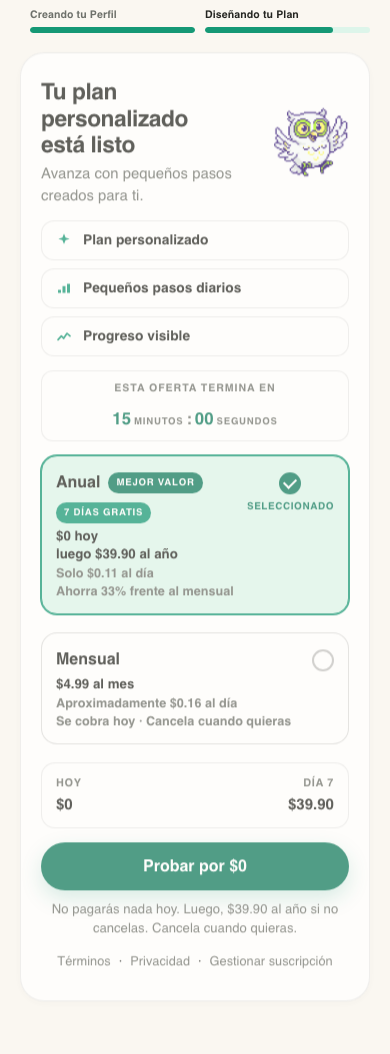
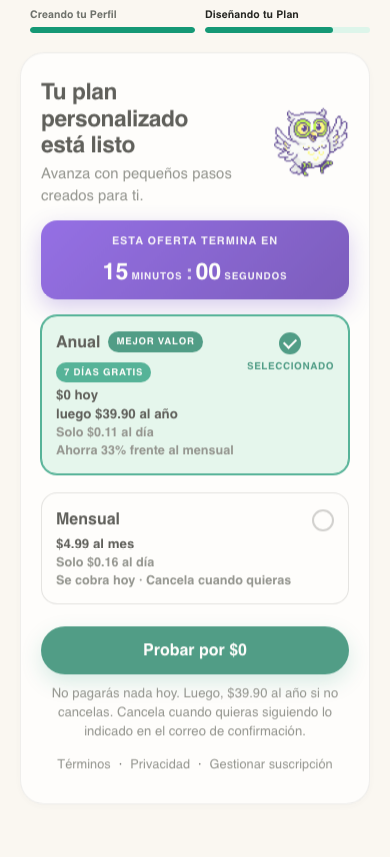
Ajusta el paywall: sin pills, contador violeta y fuera el interstitial
Quita las tres pills de beneficios y el timeline del trial, que ya no
tenian cabida en el bloque de una columna. Se eliminan tambien sus
claves de copy, sus funciones y su CSS, para no dejar codigo muerto.

El contador de la oferta pasa a un bloque violeta con degradado y
letras blancas: es el elemento que mas llama la atencion de la
pantalla y se estaba perdiendo como una caja mas.

En el plan mensual, "Aproximadamente $X al dia" pasa a "Solo $X al
dia", que es mas corto y encaja con el "Solo $X al dia" del anual.
Se queda una sola clave de copy para los dos planes.

La nota bajo el CTA anade, tras "Cancela cuando quieras", la
aclaracion de que se sigue lo indicado en el correo de confirmacion.
Se aplica a las tres variantes de nota y a los dos idiomas.

Ademas quita el paso interstitial_1 ("No estas solo en esto") del
stepList y su copy es/en. No habia ningun paso dependiente de el, y
se verifico que la navegacion salta de nq09 a nq10 correctamente en
ida y vuelta, sin errores de pagina.

startCheckout, syncCountdown, paywallOfferRemaining, renderInterstitial
y el resto de la logica de compra quedan sin tocar.

diff --git a/funnel.html b/funnel.html
@@ -3491,64 +3491,27 @@
         }
 
 
-        /* ---- 3 filas de beneficios: nunca cortan palabras ---- */
-        .paywall-benefits {
-            display: grid;
-            gap: 8px;
-            margin-bottom: 14px;
-        }
-
-
-        .paywall-benefit {
-            display: flex;
-            align-items: center;
-            gap: 10px;
-            min-width: 0;
-            padding: 10px 13px;
-            border-radius: 13px;
-            background: var(--funnel-surface);
-            border: 1px solid var(--funnel-border);
-        }
-
-
-        .paywall-benefit svg {
-            flex: 0 0 auto;
-            width: 18px;
-            height: 18px;
-            color: var(--funnel-accent);
-        }
-
-
-        .paywall-benefit-text {
-            min-width: 0;
-            font-size: 0.86rem;
-            font-weight: 700;
-            line-height: 1.3;
-            color: var(--funnel-text);
-            overflow-wrap: break-word;
-        }
-
-
-        /* ---- Countdown: solo se adapta el contenedor ---- */
+        /* ---- Contador de la oferta: bloque violeta, texto blanco ---- */
         .paywall-banner {
+            --paywall-violet: #5B34C7;
             display: flex;
             align-items: center;
             justify-content: center;
             gap: 10px;
             flex-wrap: wrap;
-            margin-bottom: 14px;
-            padding: 9px 12px;
-            border-radius: 12px;
-            background: var(--funnel-surface);
-            border: 1px solid var(--funnel-border);
+            margin-bottom: 16px;
+            padding: 13px 14px;
+            border-radius: 16px;
+            background: linear-gradient(135deg, #6D3BE0 0%, #4B21A8 100%);
+            box-shadow: 0 8px 22px rgba(91, 52, 199, 0.32);
         }
 
 
         .paywall-banner-label {
-            font-size: 0.66rem;
+            font-size: 0.68rem;
             font-weight: 800;
             letter-spacing: 0.09em;
-            color: var(--funnel-muted);
+            color: rgba(255, 255, 255, 0.92);
         }
 
 
@@ -3568,24 +3531,26 @@
 
 
         .paywall-countdown-value {
-            font-size: 1.05rem;
+            font-size: 1.45rem;
             font-weight: 800;
-            color: var(--funnel-accent-strong);
+            line-height: 1;
+            color: #ffffff;
         }
 
 
         .paywall-countdown-sep {
-            font-size: 1rem;
+            font-size: 1.3rem;
             font-weight: 800;
-            color: var(--funnel-muted);
+            line-height: 1;
+            color: rgba(255, 255, 255, 0.7);
         }
 
 
         .paywall-countdown-caption {
-            font-size: 0.6rem;
+            font-size: 0.62rem;
             font-weight: 800;
             letter-spacing: 0.08em;
-            color: var(--funnel-muted);
+            color: rgba(255, 255, 255, 0.92);
         }
 
 
@@ -3758,63 +3723,6 @@
 
 
         /* ---- Timeline del trial (solo anual con trial real) ---- */
-        .paywall-timeline {
-            display: grid;
-            grid-template-columns: 1fr auto 1fr;
-            align-items: center;
-            gap: 8px;
-            margin-top: 10px;
-            padding: 12px 14px;
-            border-radius: 14px;
-            background: var(--funnel-surface);
-            border: 1px solid var(--funnel-border);
-        }
-
-
-        .paywall-timeline-point {
-            display: flex;
-            flex-direction: column;
-            gap: 1px;
-        }
-
-
-        .paywall-timeline-point:last-child {
-            text-align: right;
-        }
-
-
-        .paywall-timeline-label {
-            font-size: 0.68rem;
-            font-weight: 800;
-            letter-spacing: 0.06em;
-            text-transform: uppercase;
-            color: var(--funnel-muted);
-        }
-
-
-        .paywall-timeline-amount {
-            font-size: 0.94rem;
-            font-weight: 800;
-            color: var(--funnel-text);
-            white-space: nowrap;
-        }
-
-
-        .paywall-timeline-rule {
-            height: 1px;
-            background: var(--funnel-border);
-        }
-
-
-        .paywall-expired {
-            margin: 10px 0 0;
-            text-align: center;
-            font-size: 0.86rem;
-            font-weight: 700;
-            color: var(--danger);
-        }
-
-
         /* ---- CTA ---- */
         .paywall-cta {
             width: 100%;
@@ -3882,10 +3790,6 @@
 
             .paywall-top .sub {
                 font-size: 1rem;
-            }
-
-            .paywall-benefit {
-                font-size: 0.8rem;
             }
         }
 
@@ -4616,13 +4520,6 @@
                 ]
             },
             {
-                id: 'interstitial_1',
-                type: 'interstitial',
-                headline: 'No estás solo en esto',
-                body: 'Diseñado para cerebros con TDAH. El patrón no es tu falta de voluntad: sin un sistema que desglose lo grande y te devuelva progreso, cualquier persona abandonaría. Brainy convierte eso en pasos chicos y una mascota que crece con cada uno.',
-                cta: 'Seguir →'
-            },
-            {
                 id: 'nq10',
                 type: 'question',
                 questionIndex: 10,
@@ -5213,10 +5110,6 @@
                 es: { headline: '¿Qué te motiva a empezar ahora?', options: ['Quiero dejar de sentirme estancado/a', 'Estoy cansado/a de volver a empezar', 'Quiero un cambio duradero', 'Solo quiero sentirme mejor'] },
                 en: { headline: 'What’s motivating you to start now?', options: ['I want to stop feeling stuck', 'I’m tired of restarting', 'I want long-term change', 'I just want to feel better'] }
             },
-            interstitial_1: {
-                es: { headline: 'No estás solo en esto', body: 'Diseñado para mentes con TDAH. El patrón no es tu falta de voluntad: sin un sistema que divida lo grande y te muestre el progreso, cualquiera podría abandonar. Brainy lo convierte en pasos pequeños y una mascota que crece con cada uno.', cta: 'Continuar →' },
-                en: { headline: 'You are not alone in this', body: 'Designed for ADHD brains. The pattern is not a lack of willpower: without a system that breaks down big tasks and shows your progress, anyone could give up. Brainy turns it into small steps and a companion that grows with each one.', cta: 'Continue →' }
-            },
             interstitial_2: {
                 es: { headline: 'Con nuestro sistema:', body: 'No se trata de fuerza de voluntad. Se trata de dividir las tareas hasta que cada paso parezca posible.', cta: 'Entendido→', breakdown: { title: '«Organizar mi armario» se divide en:', steps: ['Sacar todo', 'Separar en 3 grupos', 'Doblar', 'Guardar'], caption: 'Cada micro paso que completas también la hace crecer.' } },
                 en: { headline: 'This is how a brain with a system works', body: 'It is not about willpower. It is about breaking things down until every step feels possible.', cta: 'I want to see mine grow →', breakdown: { title: '“Organize my closet” becomes:', steps: ['Take everything out', 'Separate into 3 piles', 'Fold', 'Put away'], caption: 'Every small step you complete helps it grow too.' } }
@@ -5312,9 +5205,6 @@
             es: {
                 title: 'Tu plan personalizado está listo',
                 subtitle: 'Avanza con pequeños pasos creados para ti.',
-                benefitPlan: 'Plan personalizado',
-                benefitSteps: 'Pequeños pasos diarios',
-                benefitProgress: 'Progreso visible',
                 offerEndsIn: 'ESTA OFERTA TERMINA EN',
                 offerMinutes: 'MINUTOS',
                 offerSeconds: 'SEGUNDOS',
@@ -5331,17 +5221,12 @@
                 onlyPerDay: 'Solo {daily} al día',
                 saveVsMonthly: 'Ahorra {save}% frente al mensual',
                 perMonth: '{price} al mes',
-                aboutPerDay: 'Aproximadamente {daily} al día',
                 chargedTodayCancelAnytime: 'Se cobra hoy · Cancela cuando quieras',
-                timelineToday: 'Hoy',
-                timelineTodayAmount: '{price}',
-                timelineDay: 'Día {n}',
-                timelineDayAmount: '{price}',
                 ctaAnnual: 'Probar por {price}',
                 ctaMonthly: 'Conseguir mi Plan',
-                ctaNoteAnnual: 'No pagarás nada hoy. Luego, {price} al año si no cancelas. Cancela cuando quieras.',
-                ctaNoteAnnualNoTrial: '{price} hoy y luego {price} al año si no cancelas. Cancela cuando quieras.',
-                ctaNoteMonthly: '{price} hoy y luego cada mes hasta que canceles. Cancela cuando quieras.',
+                ctaNoteAnnual: 'No pagarás nada hoy. Luego, {price} al año si no cancelas. Cancela cuando quieras siguiendo lo indicado en el correo de confirmación.',
+                ctaNoteAnnualNoTrial: '{price} hoy y luego {price} al año si no cancelas. Cancela cuando quieras siguiendo lo indicado en el correo de confirmación.',
+                ctaNoteMonthly: '{price} hoy y luego cada mes hasta que canceles. Cancela cuando quieras siguiendo lo indicado en el correo de confirmación.',
                 offerExpired: 'Esta oferta ha terminado.',
                 checkoutUnavailable: 'Checkout no disponible en modo demo',
                 footerTerms: 'Términos',
@@ -5352,9 +5237,6 @@
             en: {
                 title: 'Your personalized plan is ready',
                 subtitle: 'Build momentum with small steps made for you.',
-                benefitPlan: 'Personalized plan',
-                benefitSteps: 'Small daily steps',
-                benefitProgress: 'Progress you can see',
                 offerEndsIn: 'THIS OFFER ENDS IN',
                 offerMinutes: 'MINUTES',
                 offerSeconds: 'SECONDS',
@@ -5371,17 +5253,12 @@
                 onlyPerDay: 'Only {daily}/day',
                 saveVsMonthly: 'Save {save}% vs monthly',
                 perMonth: '{price}/month',
-                aboutPerDay: 'About {daily}/day',
                 chargedTodayCancelAnytime: 'Charged today · Cancel anytime',
-                timelineToday: 'Today',
-                timelineTodayAmount: '{price}',
-                timelineDay: 'Day {n}',
-                timelineDayAmount: '{price}',
                 ctaAnnual: 'Try for {price}',
                 ctaMonthly: 'Get my plan',
-                ctaNoteAnnual: 'No charge today. Then {price}/year unless canceled. Cancel anytime.',
-                ctaNoteAnnualNoTrial: '{price} charged today, then {price}/year unless canceled. Cancel anytime.',
-                ctaNoteMonthly: '{price} charged today, then monthly until canceled. Cancel anytime.',
+                ctaNoteAnnual: 'No charge today. Then {price}/year unless canceled. Cancel anytime as described in your confirmation email.',
+                ctaNoteAnnualNoTrial: '{price} charged today, then {price}/year unless canceled. Cancel anytime as described in your confirmation email.',
+                ctaNoteMonthly: '{price} charged today, then monthly until canceled. Cancel anytime as described in your confirmation email.',
                 offerExpired: 'This offer has expired.',
                 checkoutUnavailable: 'Checkout unavailable in demo mode',
                 footerTerms: 'Terms',
@@ -8355,19 +8232,6 @@
                 return formatPaywallMoney(product.numeric / product.days, product.currency);
             }
 
-            const BENEFIT_ICONS = {
-                plan: '<path d="M12 3l2.1 5.2L19.5 10l-5.4 1.8L12 17l-2.1-5.2L4.5 10l5.4-1.8L12 3z"/>',
-                steps: '<path d="M4 18h4v-4H4v4zm6 0h4v-9h-4v9zm6 0h4V6h-4v12z" fill="currentColor" stroke="none"/>',
-                progress: '<path d="M4 16.5l4.5-5 3 3.2L16 8l4 3.5" stroke="currentColor" stroke-width="2.2" stroke-linecap="round" stroke-linejoin="round" fill="none"/>'
-            };
-
-            function benefitHtml(name, copyKey) {
-                return `<span class="paywall-benefit">
-                    <svg viewBox="0 0 24 24" fill="currentColor" aria-hidden="true">${BENEFIT_ICONS[name]}</svg>
-                    <span class="paywall-benefit-text">${pw(copyKey)}</span>
-                </span>`;
-            }
-
             function offerCardHtml(entry, facts, deadline) {
                 const isAnnual = entry.kind === 'annual';
                 const product = isAnnual ? facts.annual : facts.monthly;
@@ -8378,7 +8242,7 @@
                 const comparison = isAnnual && facts.comparison ? facts.comparison : null;
 
                 const dailyLine = daily
-                    ? `<span class="plan-card-line plan-card-line-muted">${pw(isAnnual ? 'onlyPerDay' : 'aboutPerDay', { daily: daily })}</span>`
+                    ? `<span class="plan-card-line plan-card-line-muted">${pw('onlyPerDay', { daily: daily })}</span>`
                     : '';
                 const saveLine = (isAnnual && comparison && comparison.savingsPercent)
                     ? `<span class="plan-card-line plan-card-line-muted">${pw('saveVsMonthly', { save: comparison.savingsPercent })}</span>`
@@ -8426,28 +8290,6 @@
                             ${sel ? `<span class="plan-card-selected-text">${pw('selectedPlan')}</span>` : ''}
                         </span>
                     </label>`;
-            }
-
-            // Timeline del trial: SOLO con anual seleccionado y trial real.
-            function trialTimelineHtml(entry, facts) {
-                if (!entry || entry.kind !== 'annual') return '';
-                const trial = paywallTrialInfo(entry.pkg);
-                if (!trial || !trial.days) return '';
-                const price = pwMoney(facts.annual, '');
-                const cur = (facts.annual && facts.annual.currency) || 'USD';
-                const free = formatPaywallMoney(0, cur).replace(/\.00(?![\d])/, '');
-                return `
-                    <div class="paywall-timeline">
-                        <span class="paywall-timeline-point">
-                            <span class="paywall-timeline-label">${pw('timelineToday')}</span>
-                            <span class="paywall-timeline-amount">${pw('timelineTodayAmount', { price: free })}</span>
-                        </span>
-                        <span class="paywall-timeline-rule" aria-hidden="true"></span>
-                        <span class="paywall-timeline-point">
-                            <span class="paywall-timeline-label">${pw('timelineDay', { n: trial.days })}</span>
-                            <span class="paywall-timeline-amount">${pw('timelineDayAmount', { price: price })}</span>
-                        </span>
-                    </div>`;
             }
 
             // CTA + nota de cobro: cambian con la seleccion. Un solo boton y un
@@ -8506,11 +8348,6 @@
                             </div>
                             <img class="paywall-logo" src="assets/logomain.png" alt="" aria-hidden="true" width="76" height="76">
                         </div>
-                        <div class="paywall-benefits">
-                            ${benefitHtml('plan', 'benefitPlan')}
-                            ${benefitHtml('steps', 'benefitSteps')}
-                            ${benefitHtml('progress', 'benefitProgress')}
-                        </div>
                         <div class="paywall-banner">
                             <span class="paywall-banner-label">${pw('offerEndsIn')}</span>
                             <span class="paywall-countdown" id="paywallCountdown" data-deadline="${deadline}">
@@ -8523,7 +8360,6 @@
                         </div>
                         <p class="sr-only" role="status" aria-live="polite" id="paywallCountdownStatus"></p>
                         <div class="plan-cards">${ordered.map((e) => offerCardHtml(e, facts, deadline)).join('')}</div>
-                        ${trialTimelineHtml(entry, facts)}
                         <p class="paywall-expired" id="paywallExpired" ${expired ? '' : 'hidden'}>${pw('offerExpired')}</p>
                         ${ctaBlockHtml(entry, facts, checkoutAllowed, expired)}
                         ${footerHtml()}
